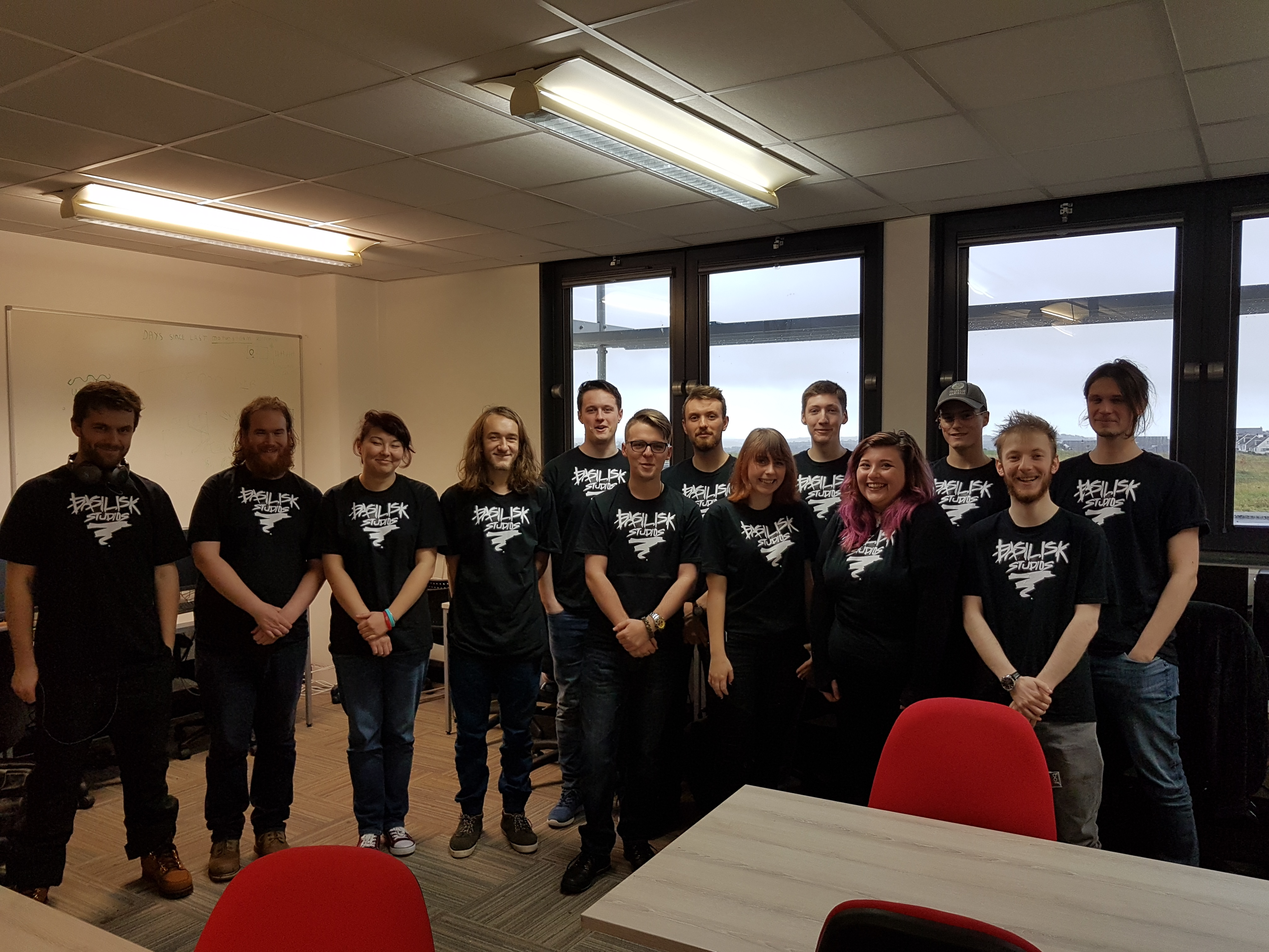
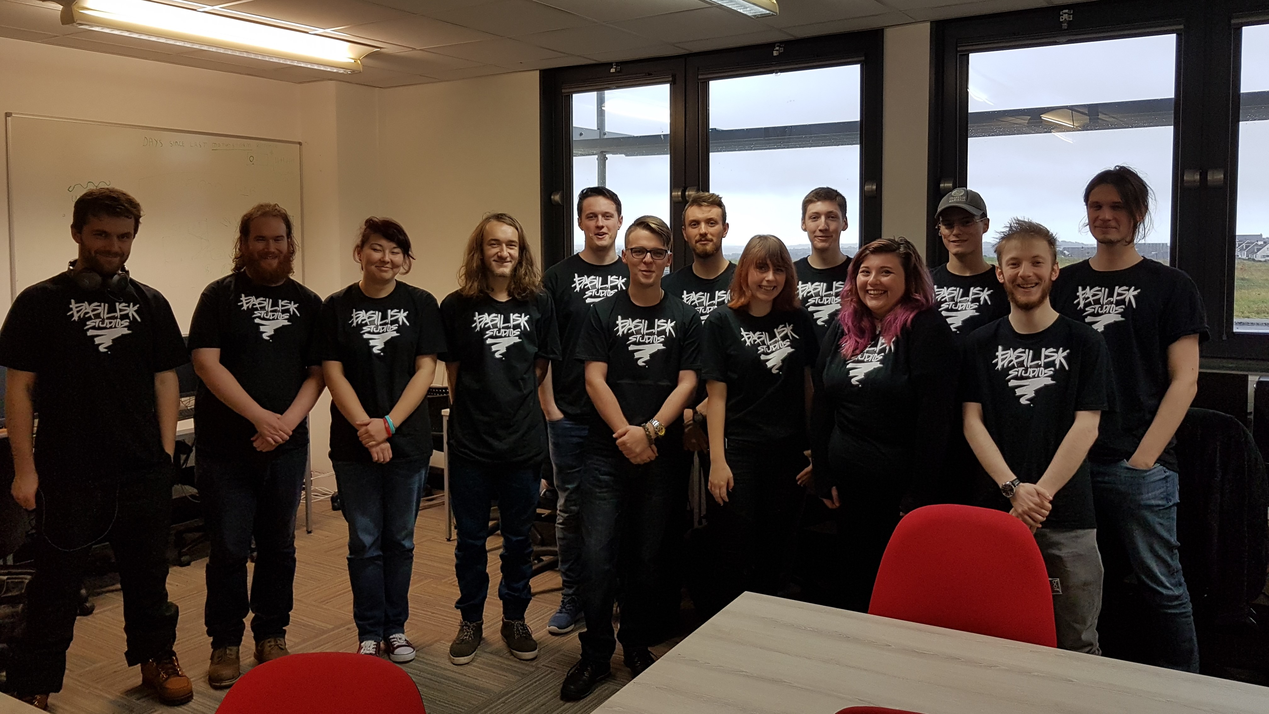
edited team photo

diff --git a/meettheteam.html b/meettheteam.html
@@ -37,10 +37,10 @@
             <!-- Slider -->
             <section id="slider" class="clear">
                 <figure>
-                    <img src="<img src="teamphoto.jpg" alt="Putas" style="width:608px;height:556px;" align="middle">" alt="">
+                    <img src="teamphoto.jpg" alt="Putas" style="width:1008px;height:756px;">
                     <figcaption>
-                        <h2>King Arthur in space!</h2>
-                        <p>What more could you want, putas.</p>
+                        <h2>The Team</h2>
+                        <p>From left to right: Richard Steele (programmer), Dr Edward Powley (product Owner), </p>
                         <footer class="more"><a href="#">Read More &raquo;</a></footer>
                     </figcaption>
                 </figure>
